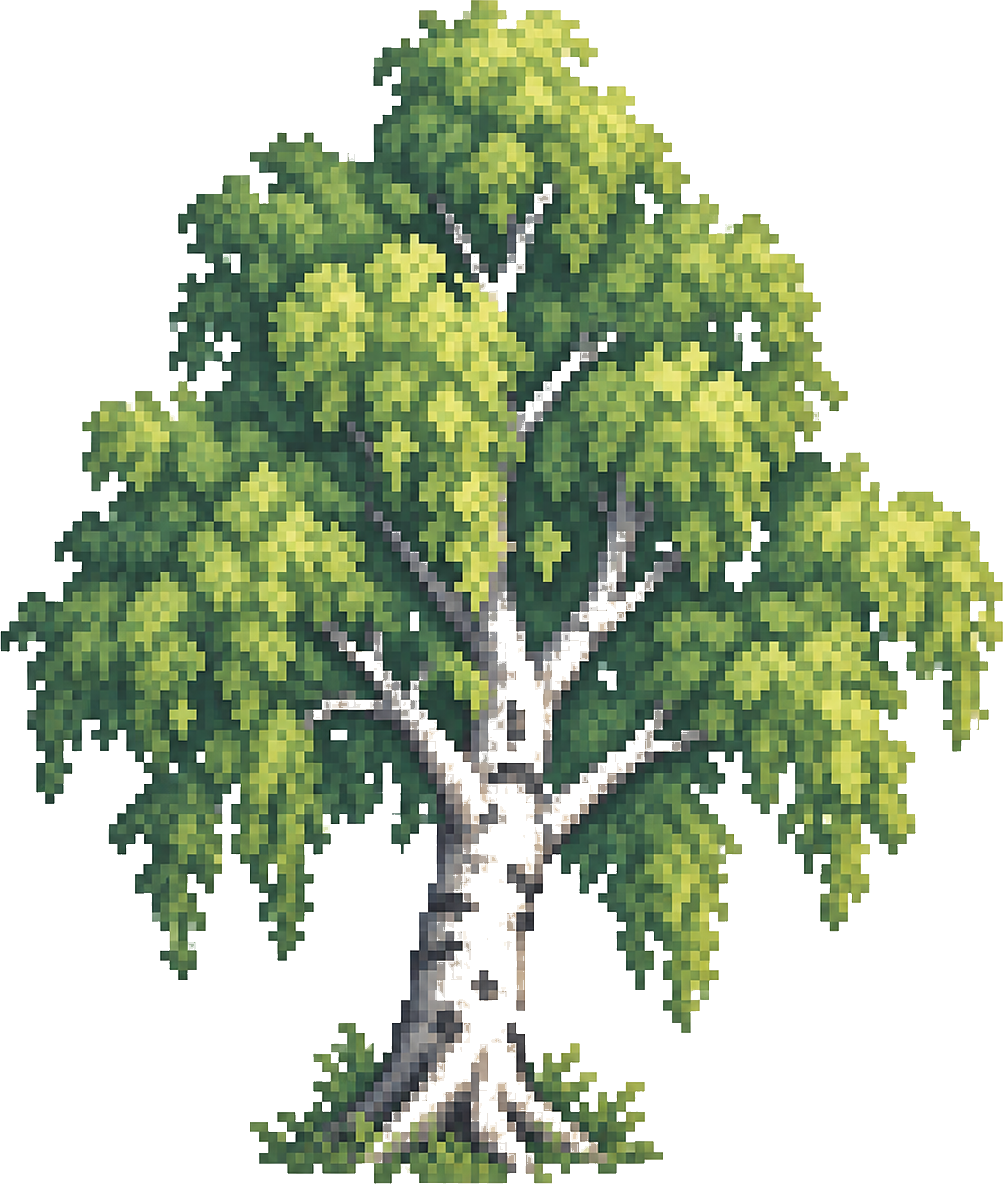
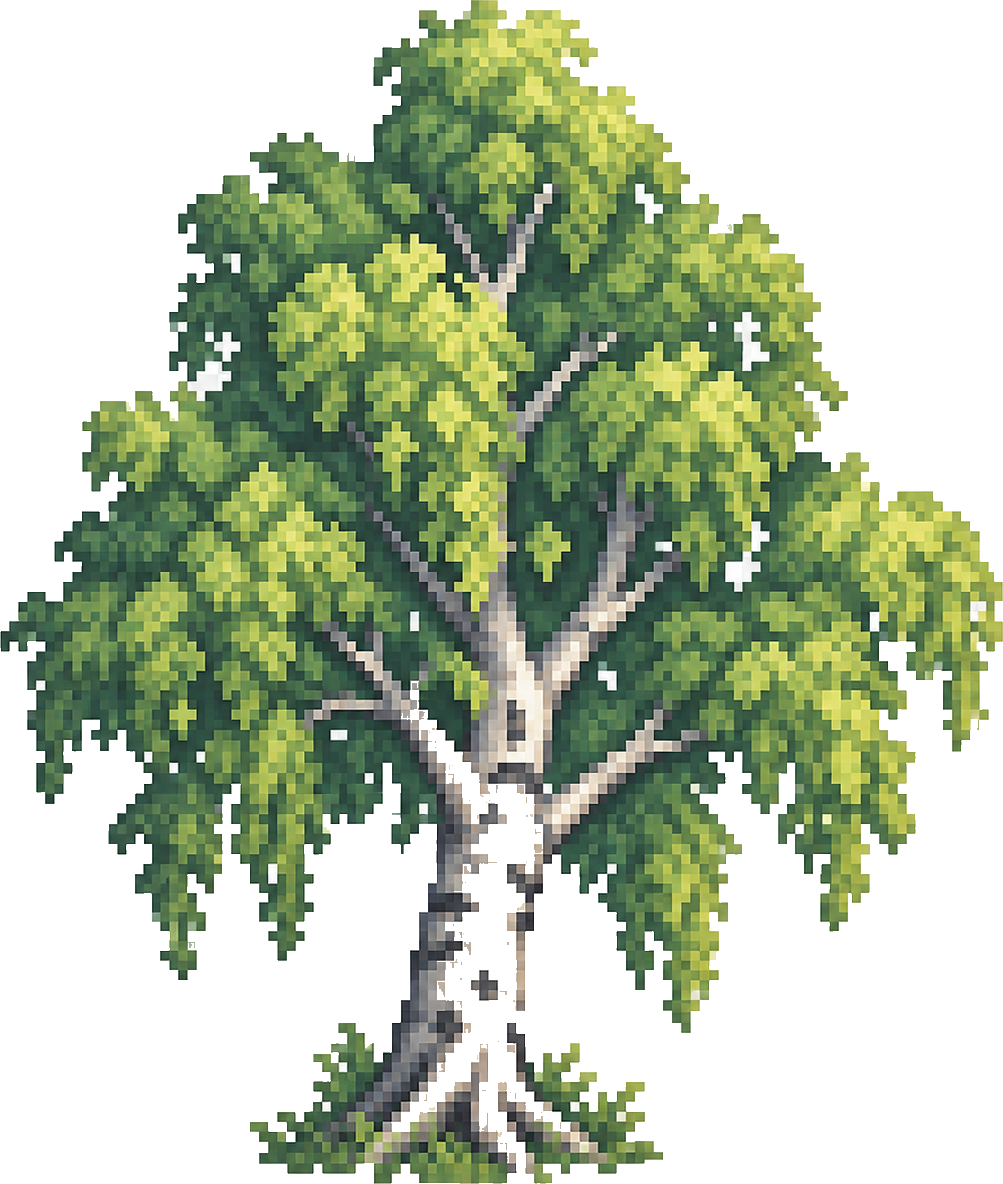
fix(dig): birch no longer hollow — connectivity-based keying; 8-grass-tile rule (USER: 树空了/树下方必须8个草方块)
Two issues:
1. tree_user2 (the birch) went hollow: my global white-chroma pass keyed
   the pale birch BARK along with the background. Rebuilt its alpha with
   connectivity-only keying — BFS from the image edges through near-white
   pixels, so enclosed pale bark survives; kept the despeckle pass,dropped
   the aggressive halo fade for this sheet. Trunk-zone opacity back to 64%.
2. Placement rule (USER: 树下方必须放置8个草方块才能长): new
   treeFootprintOk() requires the 9 surface columns tx-3..tx+5 to all be
   GRASS-capped at the same surfaceY — flat grass ground only. Trees no
   longer straddle cliff steps or sprout on stone/sand/snow columns.
Bump worldgen v=24. Boots clean.

diff --git a/website/js/worldgen.js b/website/js/worldgen.js
@@ -93,6 +93,19 @@
 
   function generate(seed, W, H) {
     var rand = rng(seed);
+  /* whole-tree placement rule (USER): 8 grass tiles under the footprint.
+     tx-3..tx+5 must all be grass-capped at the SAME surfaceY — flat ground
+     only. Returns false on cliff steps / non-grass ground. */
+  function treeFootprintOk(tx, sy) {
+    if (tx - 3 < 1 || tx + 5 >= W - 1) { return false; }
+    for (var cx = tx - 3; cx <= tx + 5; cx++) {
+      var cy2 = surfaceY[cx];
+      if (cy2 !== sy) { return false; }
+      if (tile[cy2 * W + cx] !== TILE.GRASS) { return false; }
+    }
+    return true;
+  }
+
     var tile = new Uint8Array(W * H);
     var wall = new Uint8Array(W * H);
     var surfaceY = new Int16Array(W);
@@ -360,9 +373,12 @@
           }
           tx += 3 + Math.floor(rand() * 6);
         }
-      } else if (rand() < 0.4 && groundSolid) {
-        /* whole-tree sprite: one multi-tile image per tree (USER tree.png,
-           white bg keyed, 92x96 native = 6 tiles tall — crisp at 1.0) */
+      } else if (rand() < 0.4 && groundSolid && treeFootprintOk(tx, surfaceY[tx])) {
+        /* whole-tree sprite: one multi-tile image per tree (USER art).
+           RULE (USER): a tree needs 8 GRASS tiles under its footprint —
+           treeFootprintOk() checks the surface columns tx-3..tx+5: all
+           must be GRASS cap at the same height (flat ground), so trees
+           never straddle cliff steps or sprout on stone/sand. */
         trees.push({ x: tx, y: surfaceY[tx], sprite: rand() < 0.5 ? 0 : 1 });
         tx += 12 + Math.floor(rand() * 13);
       } else {

diff --git a/website/index.html b/website/index.html
@@ -311,7 +311,7 @@ tests/test_invoice.py <span class="s">......</span>  <span class="m">[ 18/1070 ]
 <script src="js/main.js"></script>
 <script src="js/pet.js"></script>
 <script src="assets/mc/tiles.meta.js?v=16"></script>
-<script src="js/worldgen.js?v=23"></script>
+<script src="js/worldgen.js?v=24"></script>
 <script src="js/vendor/phaser.min.js"></script>
 <script src="js/game2.js?v=263"></script>
 </body>
